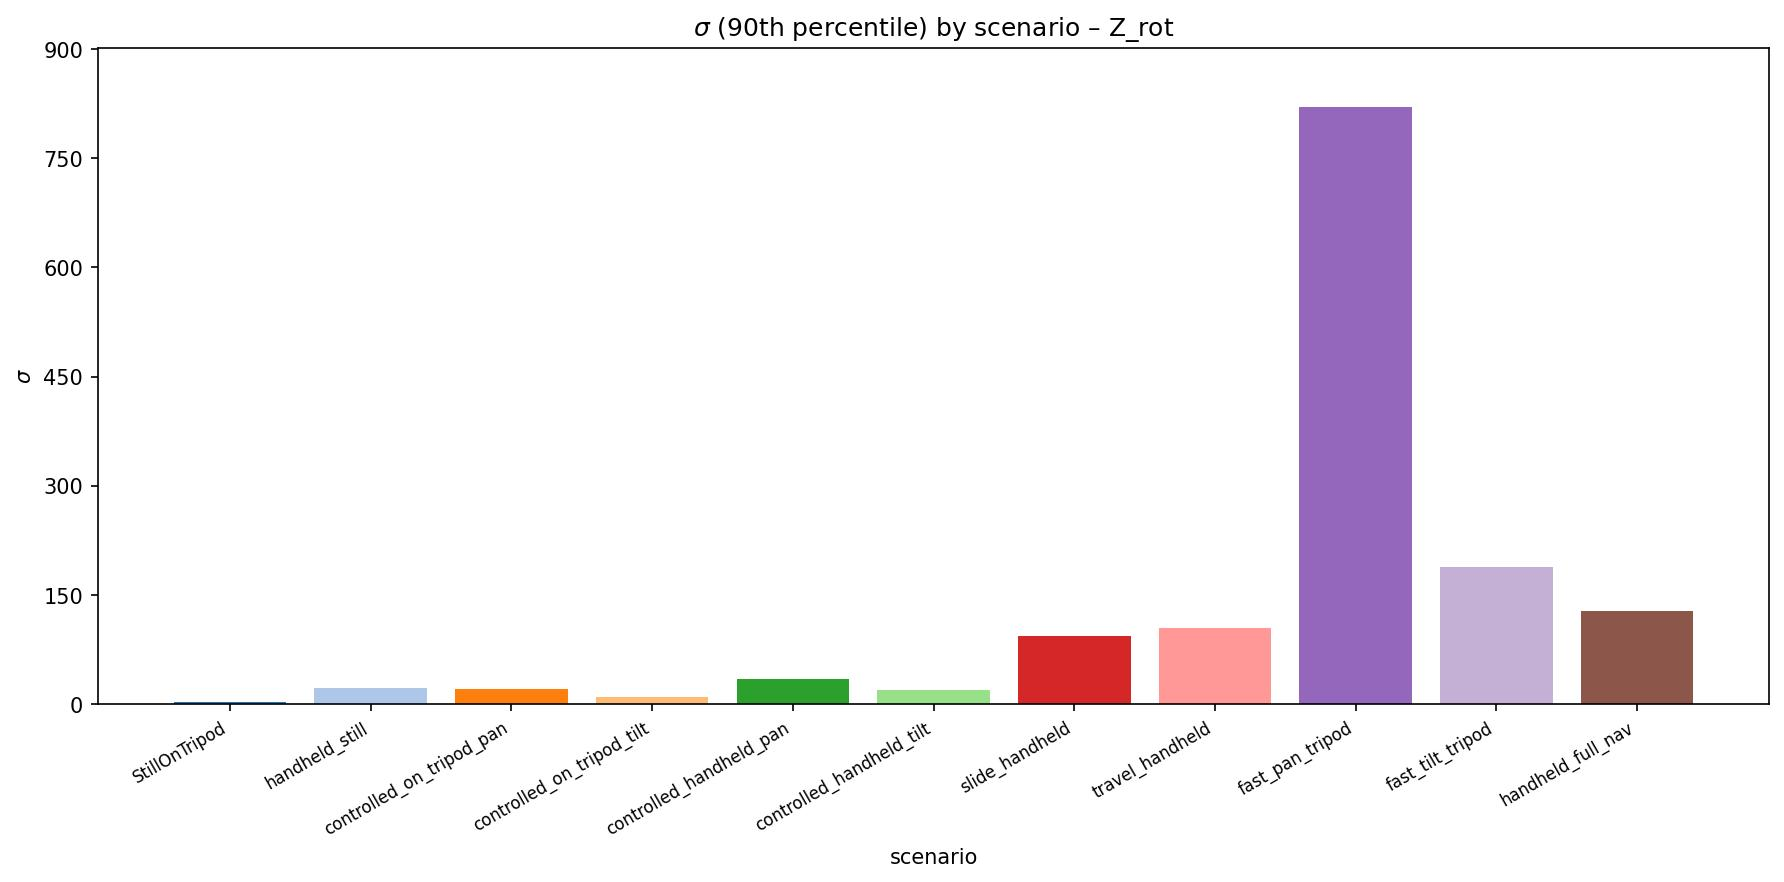
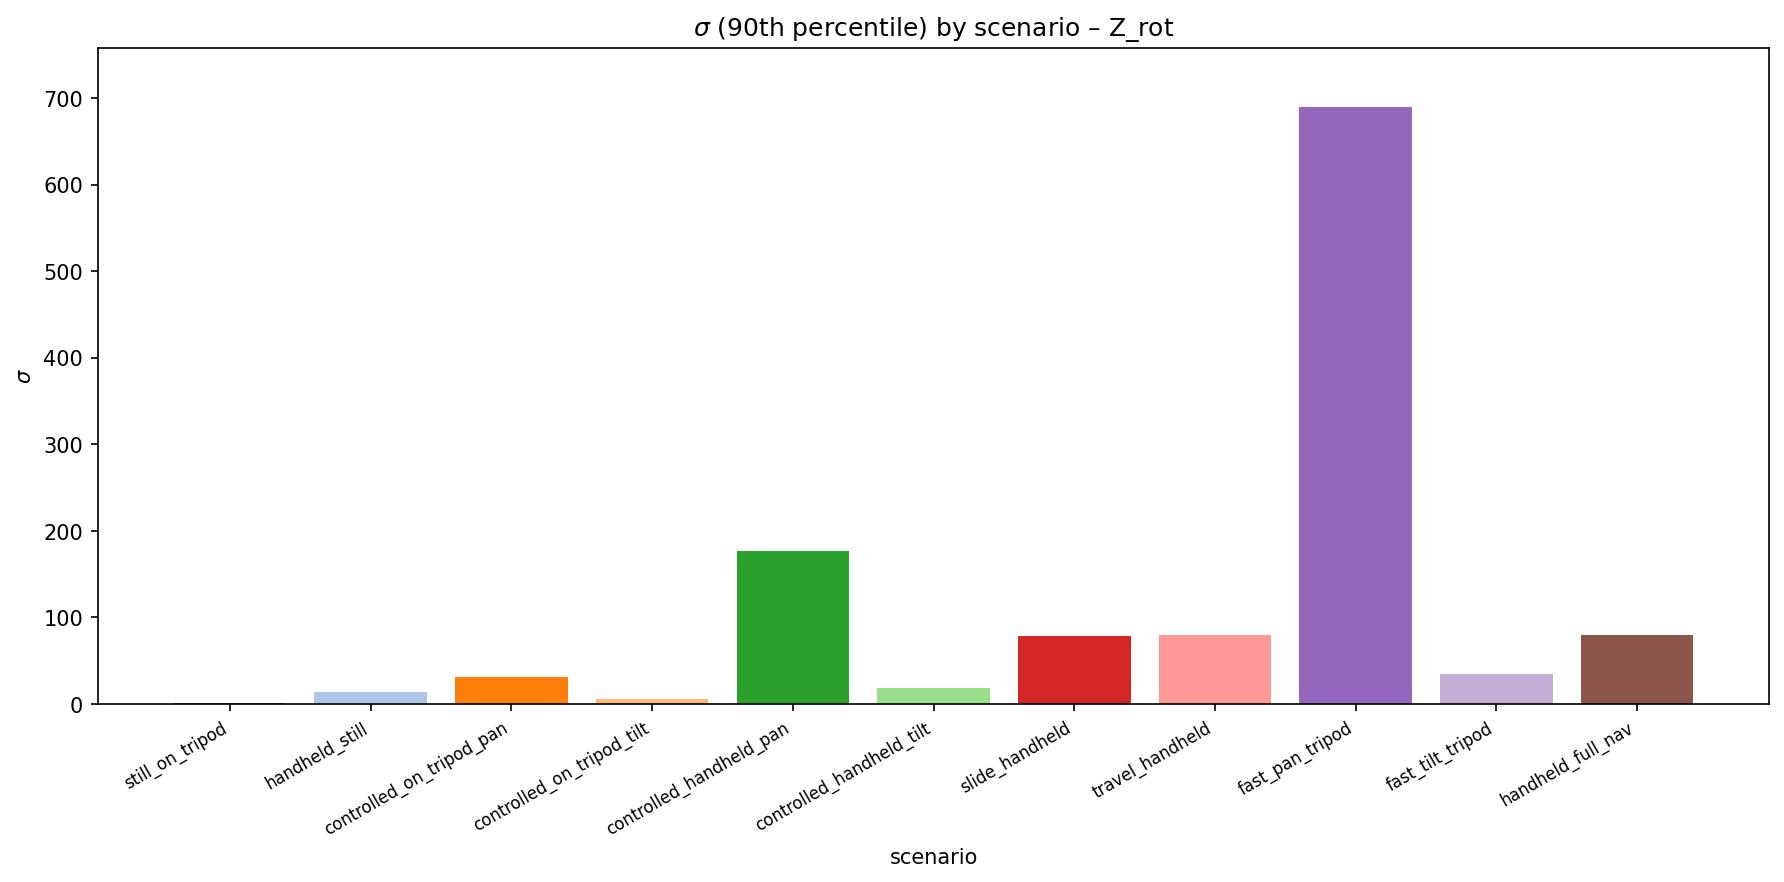
corrected the dataset to include the correct name of the tripod lable

diff --git a/linear_smoothing_sim.py b/linear_smoothing_sim.py
@@ -342,12 +342,12 @@ def main():
     parser.add_argument(
         "--label",
         type=str,
-        help="Exact label (e.g. StillOnTripod_01) to simulate",
+        help="Exact label (e.g. still_on_tripod_01) to simulate",
     )
     parser.add_argument(
         "--scenario",
         type=str,
-        help="Scenario name (e.g. StillOnTripod). Used with --take if --label not given.",
+        help="Scenario name (e.g. still_on_tripod). Used with --take if --label not given.",
     )
     parser.add_argument(
         "--take",

diff --git a/sigmoid_smoothing_sim.py b/sigmoid_smoothing_sim.py
@@ -346,12 +346,12 @@ def main():
     parser.add_argument(
         "--label",
         type=str,
-        help="Exact label (e.g. StillOnTripod_01) to simulate",
+        help="Exact label (e.g. still_on_tripod_01) to simulate",
     )
     parser.add_argument(
         "--scenario",
         type=str,
-        help="Scenario name (e.g. StillOnTripod). Used with --take if --label not given.",
+        help="Scenario name (e.g. still_on_tripod). Used with --take if --label not given.",
     )
     parser.add_argument(
         "--take",

diff --git a/piecewise_sigma_model.py b/piecewise_sigma_model.py
@@ -25,7 +25,7 @@ import matplotlib.pyplot as plt
 
 GROUPS = {
     "static": [
-        "StillOnTripod",
+        "still_on_tripod",
         "handheld_still",
     ],
     "slow_tripod": [
@@ -290,7 +290,7 @@ def plot_sigma_bar_by_scenario(
     out_path = os.path.join(output_dir, f"sigma_bar_{axis}_piecewise.jpg")
 
     scenario_order = [
-        "StillOnTripod",
+        "still_on_tripod",
         "handheld_still",
         "controlled_on_tripod_pan",
         "controlled_on_tripod_tilt",

diff --git a/linear_sigma_model.py b/linear_sigma_model.py
@@ -16,7 +16,7 @@ ALL_AXES: List[str] = POS_AXES + ROT_AXES
 
 # Scenario groupings:
 STABLE_SCENARIOS = [
-    "StillOnTripod",
+    "still_on_tripod",
     "handheld_still",
 ]
 
@@ -276,7 +276,7 @@ def plot_sigma_bar_by_scenario(
     out_path = os.path.join(output_dir, f"sigma_bar_{axis}.jpg")
 
     scenario_order = [
-        "StillOnTripod",
+        "still_on_tripod",
         "handheld_still",
         "controlled_on_tripod_pan",
         "controlled_on_tripod_tilt",

diff --git a/sigmoid_sigma_model.py b/sigmoid_sigma_model.py
@@ -16,7 +16,7 @@ ALL_AXES: List[str] = POS_AXES + ROT_AXES
 
 # Scenario groupings:
 STABLE_SCENARIOS = [
-    "StillOnTripod",
+    "still_on_tripod",
     "handheld_still",
 ]
 
@@ -282,7 +282,7 @@ def plot_sigma_bar_by_scenario(
     out_path = os.path.join(output_dir, f"sigma_bar_{axis}.jpg")
 
     scenario_order = [
-        "StillOnTripod",
+        "still_on_tripod",
         "handheld_still",
         "controlled_on_tripod_pan",
         "controlled_on_tripod_tilt",

diff --git a/parser.py b/parser.py
@@ -4,7 +4,7 @@ import re
 import pandas as pd
 
 # Directory with your per-scenario log/text files
-LOG_DIR = Path("data/raw")
+LOG_DIR = Path("data/new_rig_raw")
 
 # Output CSV to data/processed/tracking_logs.csv
 OUTPUT_CSV = LOG_DIR.parent / "processed" / "tracking_logs.csv"
@@ -21,7 +21,7 @@ VALID_SCENARIO_PREFIXES = [
     "handheld_full_nav",
     "handheld_still",
     "slide_handheld",
-    "StillOnTripod",
+    "still_on_tripod",
     "travel_handheld",
 ]
 

diff --git a/README.md b/README.md
@@ -80,7 +80,6 @@ At the top level you should see something close to:
 
 - **`kinematics.py`**
   Reads `tracking_logs.csv`, computes:
-
   - `dt` (frame-to-frame time difference),
   - velocity per axis (`V_X_pose`, …, `V_Z_rot`),
   - acceleration per axis (`A_X_pose`, …, `A_Z_rot`),
@@ -90,10 +89,8 @@ At the top level you should see something close to:
 #### Models and simulation files:
 
 - **_Linear_**:
-
   - **`linear_sigma_model.py`**
     Implements the sigma-based model:
-
     - computes rolling standard deviation of acceleration (`sigma_*`),
     - calibrates per-axis `min_sigma` / `max_sigma` from labelled scenarios,
     - maps `sigma` → `InterpSpeed_*` with a linear inverse mapping,
@@ -103,7 +100,6 @@ At the top level you should see something close to:
 
   - **`linear_smoothing_sim.py`**
     Replays a single take and axis and applies the same logic that will be used in Unreal:
-
     - recomputes rolling `sigma` online,
     - looks up model parameters from
 
@@ -112,9 +108,7 @@ At the top level you should see something close to:
     - generates plots showing raw vs smoothed motion, jitter reduction, and lag.
 
 - **_Piecewise_**:
-
   - **`piecewise_sigma_model.py`**
-
     - computes rolling σ per axis and calibrates
       piecewise σ-breaks from the scenario groups _static / slow tripod / controlled handheld / medium / fast_.
     - writes the extended table to `data/modeled/tracking_modelled_sigma_piecewise.csv`,
@@ -125,9 +119,7 @@ At the top level you should see something close to:
     Plots go to `data/piecewise_plots/smoothing/`.
 
 - **_Sigmoid_**:
-
   - **`sigmoid_sigma_model.py`**
-
     - computes rolling σ per axis and calibrates
       sigmoid inflection points from the scenario groups _static / slow tripod / controlled handheld / medium / fast_.
     - writes the extended table to `data/modeled/tracking_modelled_sigma_sigmoid.csv`,
@@ -140,7 +132,6 @@ At the top level you should see something close to:
 #### Validation files:
 
 - **`parse_validation.py`**
-
   - Parses raw Unreal log or text files from `data/validation/raw/`,
   - extracts the lines produced by the logging blueprint,
   - writes clean tables to `data/validation/processed/`.
@@ -172,8 +163,8 @@ The expected columns are:
 
 ```text
 time        # float, game time in seconds since start of take
-label       # string, e.g. 'StillOnTripod_01'
-scenario    # string, e.g. 'StillOnTripod', 'fast_pan_tripod'
+label       # string, e.g. 'still_on_tripod_01'
+scenario    # string, e.g. 'still_on_tripod', 'fast_pan_tripod'
 take        # int, take number within the scenario
 X_pose      # float, position X
 Y_pose      # float, position Y
@@ -346,17 +337,17 @@ docker compose run --rm linear \
 Output example (saved as JPG):
 
 - `data/plots/kinematics/handheld_full_nav_01_X_pose.jpg`
-- `data/plots/kinematics/StillOnTripod_01_X_pose.jpg` (from a similar command with `--plot-label StillOnTripod_01`)
+- `data/plots/kinematics/still_on_tripod_01_X_pose.jpg` (from a similar command with `--plot-label still_on_tripod_01`)
 
-| handheld_full_nav_01 – X_pose                                                         | StillOnTripod_01 – X_pose                                                     |
-| ------------------------------------------------------------------------------------- | ----------------------------------------------------------------------------- |
-| ![handheld_full_nav_01_X_pose](data/plots/kinematics/handheld_full_nav_01_X_pose.jpg) | ![StillOnTripod_01_X_pose](data/plots/kinematics/StillOnTripod_01_X_pose.jpg) |
+| handheld_full_nav_01 – X_pose                                                         | still_on_tripod_01 – X_pose                                                       |
+| ------------------------------------------------------------------------------------- | --------------------------------------------------------------------------------- |
+| ![handheld_full_nav_01_X_pose](data/plots/kinematics/handheld_full_nav_01_X_pose.jpg) | ![still_on_tripod_01_X_pose](data/plots/kinematics/still_on_tripod_01_X_pose.jpg) |
 
 **What these plots show**
 
 - The top line is the **position** along X; the lower lines show **velocity** and **acceleration** for the same axis.
 - In a **handheld full navigation** take, position drifts slowly while velocity and acceleration show noticeable variation – the camera is moving through space.
-- In a **StillOnTripod** take, position is essentially flat and both velocity and acceleration stay near zero, with only small residual noise.
+- In a **still_on_tripod** take, position is essentially flat and both velocity and acceleration stay near zero, with only small residual noise.
 
 This visualises how derivatives emphasise motion behaviour, not absolute position.
 
@@ -380,11 +371,11 @@ docker compose run --rm linear \
 Output example:
 
 - `data/plots/kinematics_scenarios/handheld_still_X_pose.jpg`
-- `data/plots/kinematics_scenarios/StillOnTripod_X_pose.jpg` (from `--plot-scenario StillOnTripod`)
+- `data/plots/kinematics_scenarios/still_on_tripod_X_pose.jpg` (from `--plot-scenario still_on_tripod`)
 
-| handheld_still – X_pose (all takes)                                                 | StillOnTripod – X_pose (all takes)                                                |
-| ----------------------------------------------------------------------------------- | --------------------------------------------------------------------------------- |
-| ![handheld_still_X_pose](data/plots/kinematics_scenarios/handheld_still_X_pose.jpg) | ![StillOnTripod_X_pose](data/plots/kinematics_scenarios/StillOnTripod_X_pose.jpg) |
+| handheld_still – X_pose (all takes)                                                 | still_on_tripod – X_pose (all takes)                                                  |
+| ----------------------------------------------------------------------------------- | ------------------------------------------------------------------------------------- |
+| ![handheld_still_X_pose](data/plots/kinematics_scenarios/handheld_still_X_pose.jpg) | ![still_on_tripod_X_pose](data/plots/kinematics_scenarios/still_on_tripod_X_pose.jpg) |
 
 **What these plots show**
 
@@ -495,16 +486,13 @@ Output example:
 Each figure has three parts:
 
 1. **Raw vs smoothed motion over time**
-
    - The orange smoothed curve follows the blue raw curve but removes high-frequency oscillations.
 
 2. **Jitter metric before and after**
-
    - Bars show the RMS of frame-to-frame differences.
    - A lower value after smoothing indicates reduced jitter; in fast tilt, jitter drops significantly.
 
 3. **Difference and lag estimate**
-
    - The bottom plot shows `smoothed - raw` over time, with an estimated lag in ms.
    - Fast tilt exhibits more jitter reduction and a small lag (~100 ms); fast pan shows less change and almost zero lag.
 
@@ -730,19 +718,16 @@ Output example:
 **What these plots show**
 
 - ### Linear Model:
-
   - The linear mapping is conservative. It reduces jitter a bit, but it is clearly prioritising responsiveness by remaining very close to the raw signal.
   - The model is a good "safe default". It does not affect the signal much. It applies small corrections when the motion is very jittery. Otherwise, it remains very close to the raw signal.
   - This makes the model very useful in certain use cases, where simple jitter reduction is desired, while responsiveness is of highest priority.
 
 - ### Piecewise Model:
-
   - The piecewise mapping is more aggressive generally -as shown in this sequence- It removes more high-frequency energy while still keeping the signal aligned in time.
   - The model is a "strong stabilizer". It applies larger level of smoothness, and is more sensitive to jitter variations, thanks to the multiple breakpoints.
   - Even with more smoothing, the lag produced by the model is essentially the same as the linear model. This proves the piecewise model ability to generalize over most use cases without introducing additional latency.
 
 - ### Sigmoid Model:
-
   - The sigmoid mapping is somewhere in between the linear and piecewise models. It is the none liener model among the three.
   - It sits -both conceptually and in practice- between the linear and piecewise models.
   - like the linear model, it balances the signal across two ends of the range, but unlike the linear model, the steps between those two ends is non-linear, following a sigmoid curve.
@@ -751,7 +736,6 @@ Output example:
   - The lag produced by the model is also essentially the same as the linear and piecewise models in most cases. This proves the sigmoid model ability to generalize over most use cases without introducing additional latency.
 
 - ### Comparitive Analysis:
-
   - Depending on the use case, one model may be preferred over the other. The linear model is a good baseline.
 
   - Other models, with more sigma breakpoints/variation (e.g. the piecewise model) can offer further control over tuning options, but with potential slight latency trade-offs in certain scenarios.
@@ -987,13 +971,11 @@ This project is structured so that individual components can be replaced or exte
   `kinematics.py` centralises time-based derivatives. Additional features (e.g. jerk, windowed energy, frequency-domain metrics) can be added here without touching the model code.
 
 - **Models**
-
   - `linear_sigma_model.py` implements a single, interpretable baseline.
     `<any_additional_model(s)>_sigma_model.py` file(s) implement alternative mappings strategies based on their sigma breakpoints and speed ranges.
   - Each model reads from `tracking_derivatives.csv` and writes to its own modelled CSV `<model>_sigma_model.csv`, and its own configuration JSON `<model>_sigma_model.json`.
 
 - **Validation**
-
   - The validation pipeline processes the raw .log files at `data/validation/raw` and creates the .csv files needed for the service.
 
   - Each runtime session from any chosen model would have 6 validation plots, one for each axis, to make it possible to validate the smoothing performance during runtime on any of the models.
